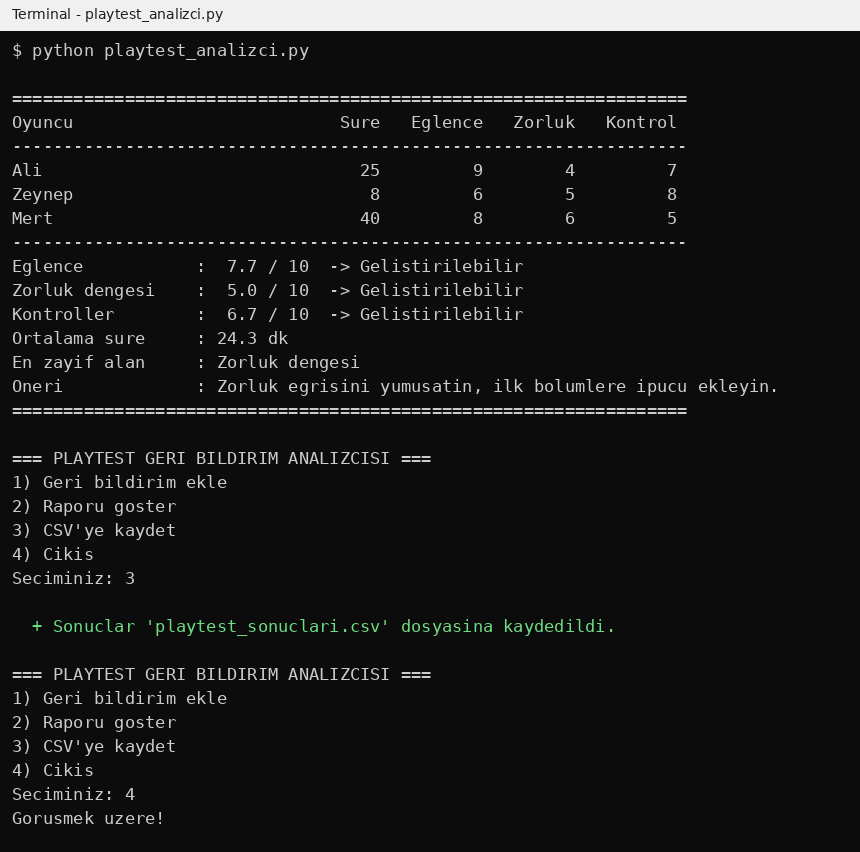
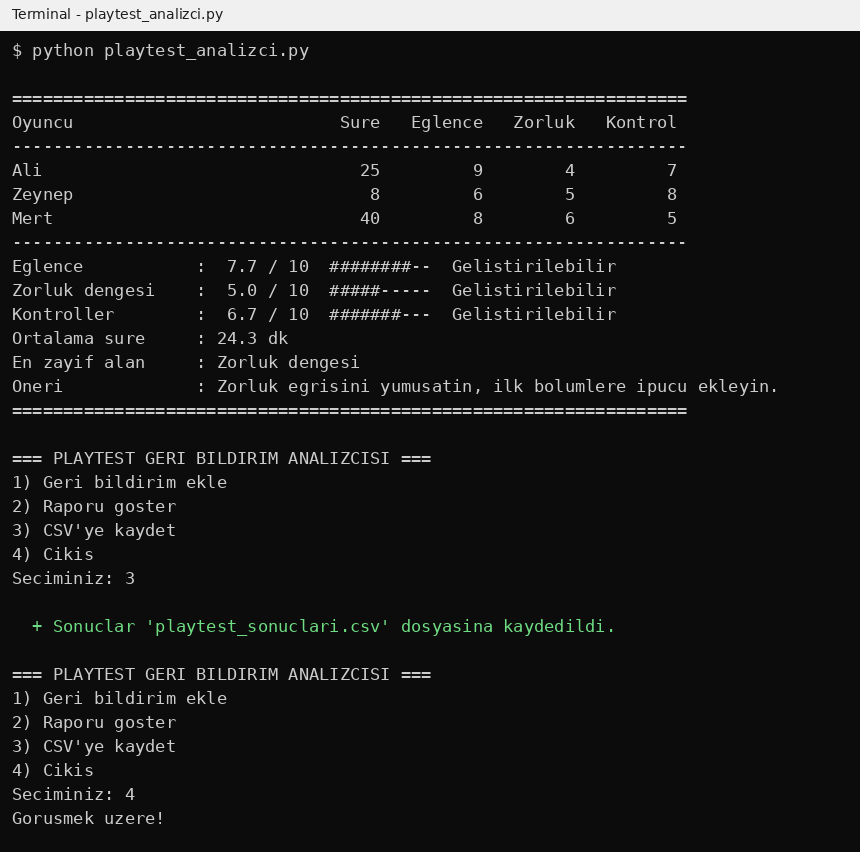
Rapora puan cubuk grafigi eklendi
Claude-Session: https://claude.ai/code/session_01JgWvQKtBKvMskr2iGzuUen

Changed region(s): [[0.393, 0.3052, 0.6953, 0.3967]]

diff --git a/playtest_analizci.py b/playtest_analizci.py
@@ -91,6 +91,12 @@ def puan_yorumu(puan):
         return "Oncelikli sorun"
 
 
+def cubuk_ciz(puan):
+    """Puani 10 karakterlik bir cubuga cevirir. Ornek: 7.7 -> ########--"""
+    dolu = round(puan)
+    return "#" * dolu + "-" * (10 - dolu)
+
+
 def oneri_uret(en_zayif, ort_sure):
     """En zayif alana ve oynama suresine gore ekibe oneri yazar."""
     if en_zayif is None:
@@ -123,7 +129,7 @@ def rapor_yazdir(kayitlar):
     ortalamalar, ort_sure, en_zayif = ozet_hesapla(kayitlar)
     for anahtar, ad in ALANLAR.items():
         puan = ortalamalar[anahtar]
-        print(f"{ad:<18}: {puan:>4} / 10  -> {puan_yorumu(puan)}")
+        print(f"{ad:<18}: {puan:>4} / 10  {cubuk_ciz(puan)}  {puan_yorumu(puan)}")
     print(f"{'Ortalama sure':<18}: {ort_sure} dk")
     print(f"En zayif alan     : {zayif_alan_adi(en_zayif)}")
     print(f"Oneri             : {oneri_uret(en_zayif, ort_sure)}")

diff --git a/README.md b/README.md
@@ -59,7 +59,7 @@ Menüden seçim yapın:
 | 3+ girdi ve doğrulama | `metin_al()`, `sayi_al()`: `try/except` ve aralık kontrolü |
 | 2+ karar yapısı | `puan_yorumu()`, `oneri_uret()`, `ana_menu()` içindeki `if/elif/else` |
 | Döngü | `ana_menu()` içindeki `while True` menü döngüsü, girdi tekrar döngüleri |
-| 3+ fonksiyon | 10 fonksiyon |
+| 3+ fonksiyon | 11 fonksiyon |
 | Liste / sözlük | `kayitlar` listesi, her kayıt bir sözlük; `ALANLAR` sözlüğü |
 | Dosyaya kayıt | `csv_kaydet()`: `playtest_sonuclari.csv` |
 
